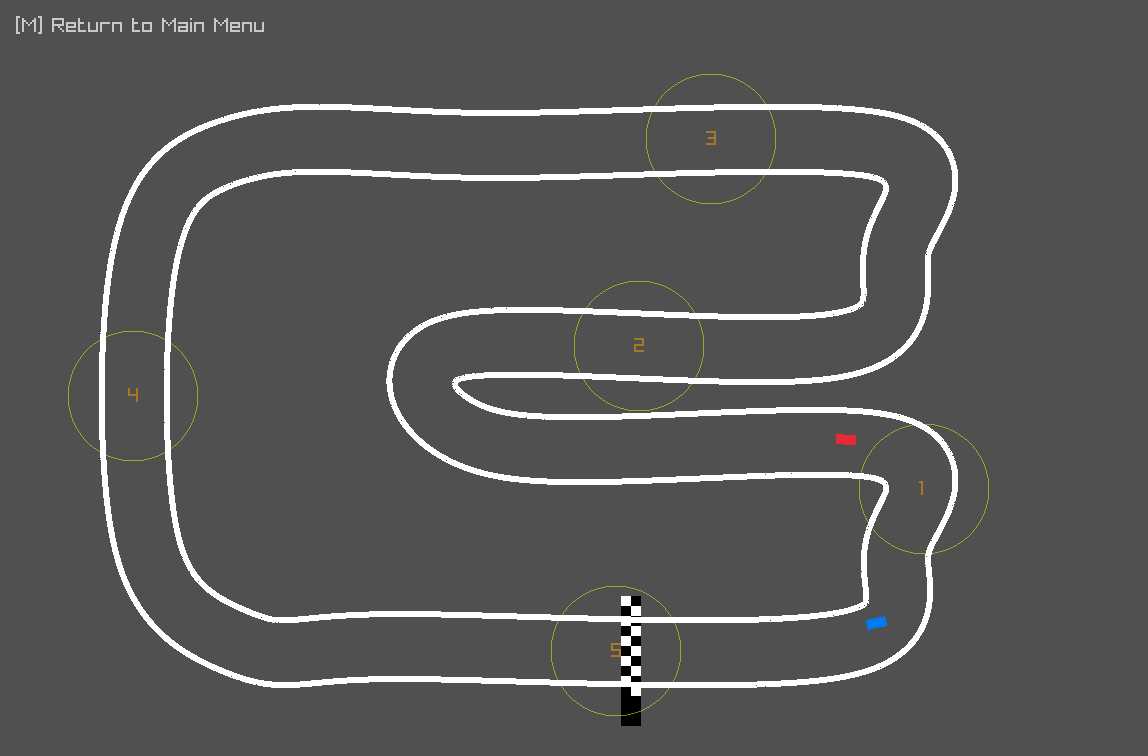
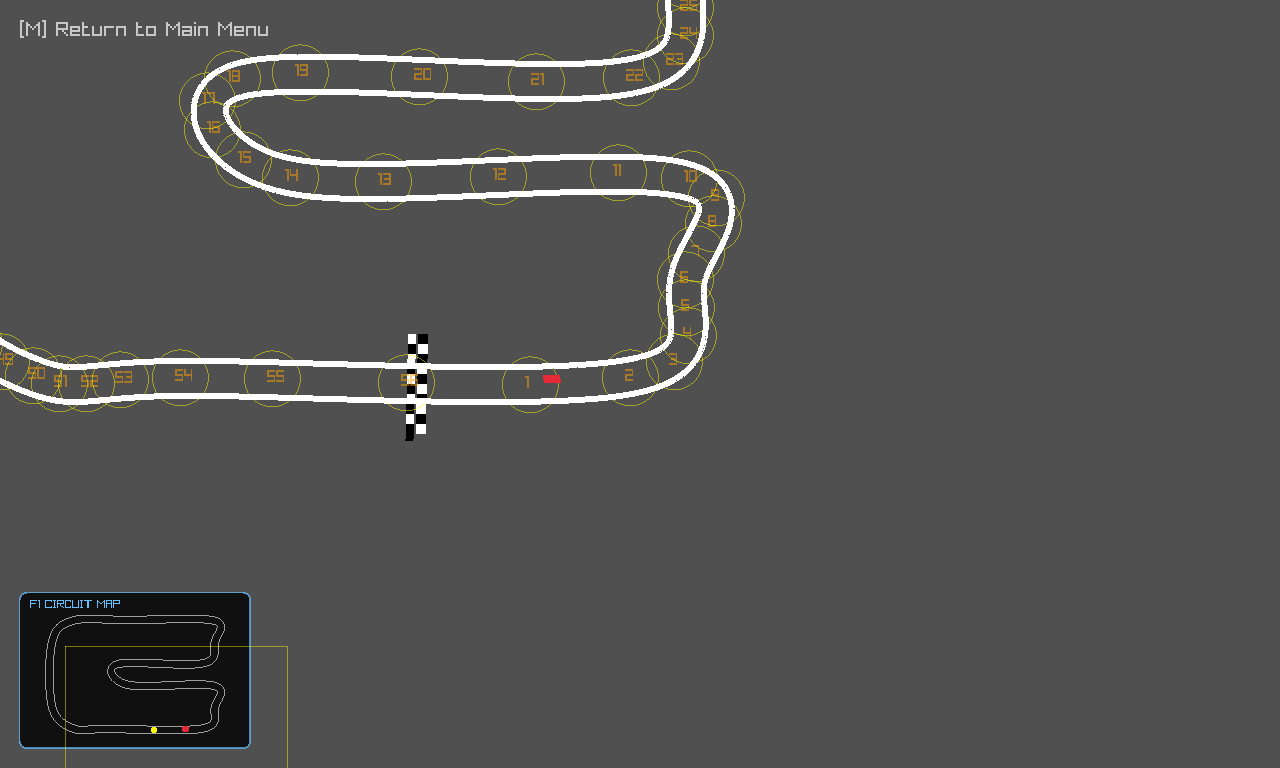
docs(media): update simulation screenshots and hero training GIF with modern v2.6.0 engine

diff --git a/src/Simulation.cpp b/src/Simulation.cpp
@@ -14,6 +14,7 @@
 #include <atomic>
 #include <csignal>
 #include <omp.h>
+#include <filesystem>
 
 static volatile sig_atomic_t stopRequested = 0;
 static void signalHandler(int) { stopRequested = 1; }
@@ -139,6 +140,113 @@ void Simulation::Run() {
         CloseWindow();
     }
     Telemetry::Flush();
+}
+
+void Simulation::CaptureDocumentationMedia() {
+    Init();
+    std::filesystem::create_directories("docs");
+    std::filesystem::create_directories("build/frames");
+
+    std::cout << "[CAPTURE] Starting documentation media asset generation..." << std::endl;
+
+    // 1. Training Mode & Animated GIF sequence
+    currentState = TRAINING;
+    showTelemetry = true;
+    showGhostVehicle = true;
+    showCheckpoints = false;
+    cameraMode = CAM_FOLLOW_LEADER;
+    targetZoom = 1.0f;
+
+    std::cout << "[CAPTURE] Warming up Training mode..." << std::endl;
+    for (int t = 0; t < 120; t++) {
+        UpdateTraining();
+        UpdateCameraControl();
+        Draw();
+    }
+
+    std::cout << "[CAPTURE] Capturing docs/Training.png..." << std::endl;
+    TakeScreenshot("docs/Training.png");
+
+    std::cout << "[CAPTURE] Recording 120 frames for docs/Training.gif..." << std::endl;
+    for (int f = 0; f < 120; f++) {
+        UpdateTraining();
+        UpdateCameraControl();
+        Draw();
+        char framePath[128];
+        snprintf(framePath, sizeof(framePath), "build/frames/frame_%04d.png", f);
+        TakeScreenshot(framePath);
+    }
+
+    // 2. Exhibition Mode (Player vs AI side-by-side)
+    std::cout << "[CAPTURE] Setting up Exhibition Mode..." << std::endl;
+    currentState = EXHIBITION;
+    playerCar.Reset(startPosition.x, startPosition.y, startRotation);
+    aiCar.Reset(startPosition.x, startPosition.y, startRotation);
+    {
+        std::vector<Car> temp(1, Car(startPosition.x, startPosition.y, startRotation));
+        if (Evolution::LoadBestBrains(temp, generationCount)) {
+            aiCar = temp[0];
+        }
+        aiCar.Reset(startPosition.x, startPosition.y, startRotation);
+    }
+    exhibitionResult = 0;
+    testModeTimer = 0;
+    cameraMode = CAM_FOLLOW_LEADER;
+
+    for (int t = 0; t < 75; t++) {
+        testModeTimer++;
+        float playerAcc = 1.0f;
+        float playerTurn = 0.04f;
+        playerCar.UpdatePhysics(playerAcc, playerTurn, spatialGrid, testModeTimer, trackCheckpoints);
+        float aiAcc = 0.0f, aiTurn = 0.0f;
+        aiCar.Think(aiAcc, aiTurn);
+        aiCar.UpdatePhysics(aiAcc, aiTurn, spatialGrid, testModeTimer, trackCheckpoints);
+        UpdateCameraControl();
+        Draw();
+    }
+    std::cout << "[CAPTURE] Capturing docs/Exhibition.png..." << std::endl;
+    TakeScreenshot("docs/Exhibition.png");
+
+    // 3. Test AI Mode (Standalone elite AI on cornering line)
+    std::cout << "[CAPTURE] Setting up Test AI Mode..." << std::endl;
+    currentState = TEST_AI;
+    aiCar.Reset(startPosition.x, startPosition.y, startRotation);
+    testModeTimer = 0;
+    cameraMode = CAM_FOLLOW_LEADER;
+
+    for (int t = 0; t < 90; t++) {
+        testModeTimer++;
+        float aiAcc = 0.0f, aiTurn = 0.0f;
+        aiCar.Think(aiAcc, aiTurn);
+        aiCar.UpdatePhysics(aiAcc, aiTurn, spatialGrid, testModeTimer, trackCheckpoints);
+        UpdateCameraControl();
+        Draw();
+    }
+    std::cout << "[CAPTURE] Capturing docs/TestAI.png..." << std::endl;
+    TakeScreenshot("docs/TestAI.png");
+
+    // 4. Replay Mode (60Hz Scrubber with fastest lap data)
+    std::cout << "[CAPTURE] Setting up Replay Mode..." << std::endl;
+    if (!Telemetry::HasFastestLap()) {
+        Telemetry::LoadFastestLapCSV("data/telemetry_best_lap.csv");
+    }
+    replay.samples = Telemetry::GetFastestLapBuffer();
+    if (!replay.samples.empty()) {
+        currentState = REPLAY;
+        replay.isPaused = true;
+        replay.currentFrame = std::min(220.0f, static_cast<float>(replay.samples.size() - 1));
+        size_t fIdx = static_cast<size_t>(replay.currentFrame);
+        worldCamera.target = replay.samples[fIdx].position;
+        targetZoom = 1.0f;
+        worldCamera.zoom = 1.0f;
+        Draw();
+        std::cout << "[CAPTURE] Capturing docs/Replay.png..." << std::endl;
+        TakeScreenshot("docs/Replay.png");
+    }
+
+    CloseWindow();
+    Telemetry::Flush();
+    std::cout << "[CAPTURE] Completed documentation media generation." << std::endl;
 }
 
 void Simulation::Update() {

diff --git a/src/main.cpp b/src/main.cpp
@@ -19,6 +19,7 @@ int main(int argc, char* argv[]) {
     bool startTraining = false;
     int maxGenerations = -1;
     bool startFresh = false;
+    bool captureDocs = false;
 
     if (argc > 1) {
         for(int i = 1; i < argc; i++) {
@@ -29,10 +30,12 @@ int main(int argc, char* argv[]) {
                 startTraining = true;
             }else if(arg == "--fresh" || arg == "--new"){
                 startFresh = true;
+            }else if(arg == "--capture-docs" || arg == "--capture-media"){
+                captureDocs = true;
             }else if((arg == "--generations" || arg == "-g") && i + 1 < argc){
                 maxGenerations = std::stoi(argv[++i]);
             }else if(arg == "--help"){
-                cout << "Usage: ./app [--headless] [--training] [--fresh] [--generations <N>]" << endl;
+                cout << "Usage: ./app [--headless] [--training] [--fresh] [--capture-docs] [--generations <N>]" << endl;
                 return 0;
             }else{
                 cout << "Unknown argument: " << argv[i] << endl;
@@ -40,6 +43,12 @@ int main(int argc, char* argv[]) {
                 return 1;
             }
         }
+    }
+
+    if (captureDocs) {
+        Simulation sim(false, false, -1, false);
+        sim.CaptureDocumentationMedia();
+        return 0;
     }
 
     Simulation sim(isHeadless, startTraining, maxGenerations, startFresh); 

diff --git a/include/Simulation.h b/include/Simulation.h
@@ -32,6 +32,11 @@ public:
      */
     void Run();
 
+    /**
+     * @brief Autonomously executes each simulation mode and captures updated documentation media assets.
+     */
+    void CaptureDocumentationMedia();
+
 private:
     /**
      * @brief Initializes visual resources and necessary base logic.

diff --git a/README.md b/README.md
@@ -132,7 +132,7 @@ The engine provides four distinct simulation configurations to analyze agent beh
 
 | **1. Training Mode** | **2. Exhibition Mode** | **3. Test AI Mode** | **4. Replay Mode** |
 | :---: | :---: | :---: | :---: |
-| [![Training Mode](docs/Training.png)](docs/Training.png) | [![Exhibition Mode](docs/Exhibition.png)](docs/Exhibition.png) | [![Test AI Mode](docs/TestAI.png)](docs/TestAI.png) | `[ R ] Key` |
+| [![Training Mode](docs/Training.png)](docs/Training.png) | [![Exhibition Mode](docs/Exhibition.png)](docs/Exhibition.png) | [![Test AI Mode](docs/TestAI.png)](docs/TestAI.png) | [![Replay Mode](docs/Replay.png)](docs/Replay.png) |
 | *Neural network undergoing continuous training with live dashboard metrics and weight visualizations.* | *Manual player driving (blue car) competing head-to-head against the elite neural network brain (red car).* | *Observing the standalone driving strategy of the saved elite network navigate challenging curves.* | *Interactive 60Hz telemetry scrubber with ghost car projection, speed heatmaps, and cockpit Jacobians.* |
 
 ---
@@ -551,7 +551,8 @@ NeuralRacer-CPP/
 │   ├── Training.gif       # Principal animated training loop capture
 │   ├── Training.png       # Training mode screenshot
 │   ├── Exhibition.png     # Exhibition mode screenshot
-│   └── TestAI.png         # Test AI mode screenshot
+│   ├── TestAI.png         # Test AI mode screenshot
+│   └── Replay.png         # 60Hz telemetry replay scrubber screenshot
 ├── include/               # Header definitions
 │   ├── Brain.h            # Neural network struct, MGU cell, and inference functions
 │   ├── Car.h              # Vehicle state, kinematics, steering slew rate, and OBB structure

diff --git a/docs/INSTRUCTIONS.md b/docs/INSTRUCTIONS.md
@@ -64,8 +64,14 @@ Static screenshots should be captured in lossless PNG format and saved directly 
 1. **Training Mode (`docs/Training.png`):** Capture during active generation (e.g., Gen 100+) with the population distributed, telemetry dashboard active, and neural network weights highlighted.
 2. **Exhibition Mode (`docs/Exhibition.png`):** Capture side-by-side racing between the player vehicle (blue) and the elite neural brain (red).
 3. **Test AI Mode (`docs/TestAI.png`):** Capture a single elite vehicle navigating a technical chicane or hairpin in full overview mode (`[ V ]`).
+4. **Replay Mode (`docs/Replay.png`):** Capture 60Hz telemetry timeline scrubber with fastest lap projection, speed heatmaps, Kamm circle metrics, and tire thermals.
+
+---
+
+## 5. Fully Autonomous Asset Capture CLI Command
+
+To automatically boot the engine, step through each operational mode, capture all four high-resolution screenshots, and dump consecutive frames for the training GIF, run:
 
 ```bash
-# Optimize PNG file size losslessly before committing:
-optipng -o7 docs/*.png 2>/dev/null || true
+./build/bin/app --capture-docs
 ```
